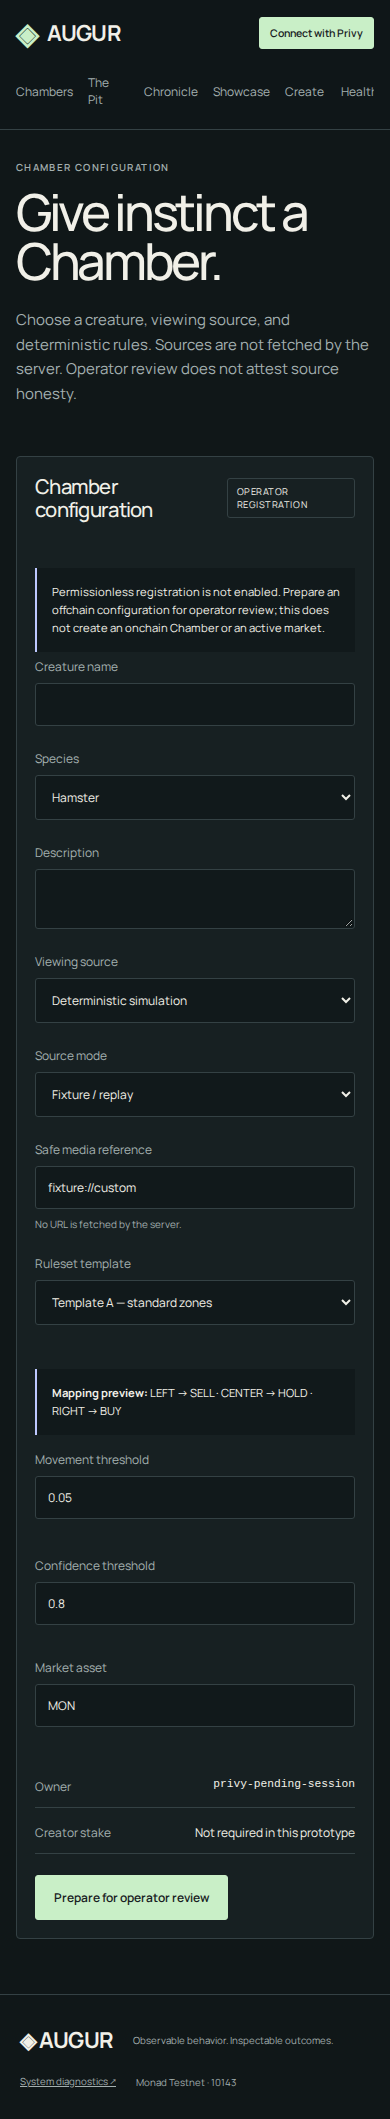
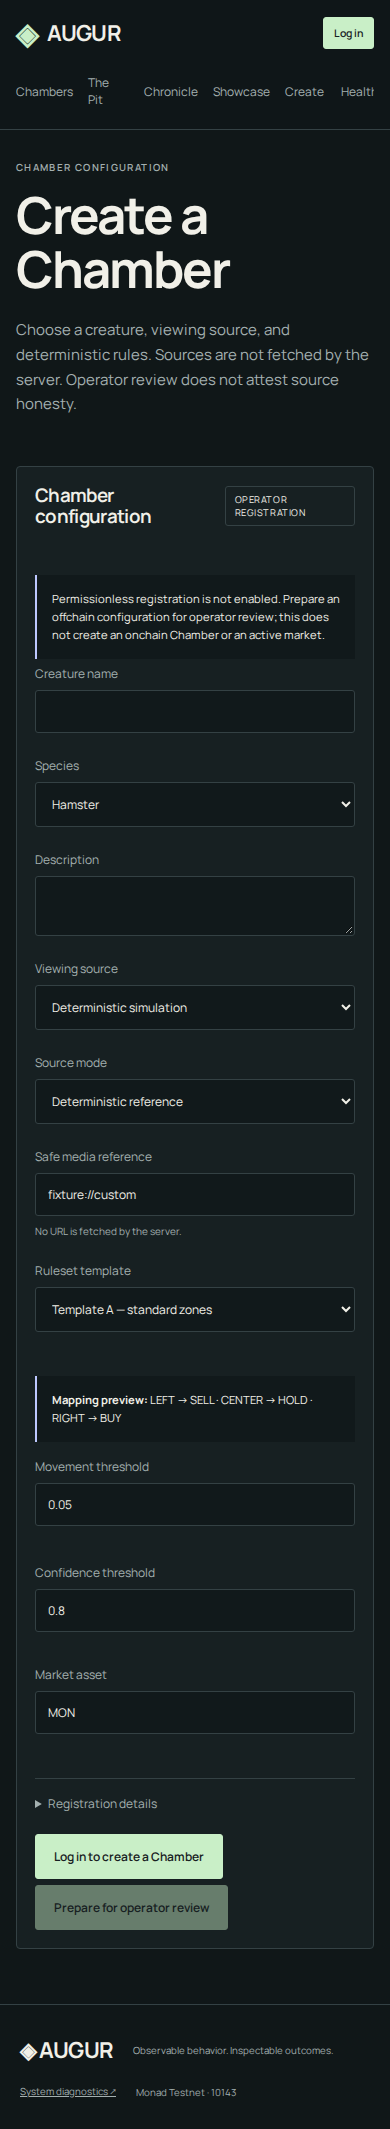
docs: capture corrected product and production boundaries

diff --git a/docs/SUBMISSION-AUDIT.md b/docs/SUBMISSION-AUDIT.md
@@ -1,4 +1,4 @@
-# Product completion audit
+# Product correction audit
 
 The local product uses the real Monad Testnet deployment and verified local Envio projection. Production hosting remains blocked on external configuration. No blockchain transaction was sent during this product pass.
 
@@ -6,20 +6,22 @@ The local product uses the real Monad Testnet deployment and verified local Envi
 
 | Surface | Verified boundary |
 | --- | --- |
-| Discovery | Media-led Hamster, Fish and Turtle categories. Hamster has real indexed contract records; Fish/Turtle are replay rooms and local demonstrations, not onchain markets. |
-| Chamber | Licensed recorded footage, published behavior/Omen, real market state, exact AUGD pools, wallet-position reads, and separate approval/prediction/settlement feedback. Footage is explicitly illustrative, not publication evidence. |
-| Media | Recorded video, public HLS and browser-camera adapters with loading/error handling, native controls and fullscreen. No live source is configured; private camera footage is not stored or uploaded. |
-| Motion | Route entry/exit, scroll reveals and linked viewing expansion, Omen/market transitions, pool transitions, battle introductions, reaction bursts and drawers. Reduced motion disables spatial effects and automatic replay playback. |
+| Discovery | Pablo (Hamster), Bubbles (Fish) and Turbo (land Tortoise) have readable identities, cards and rooms. Pablo shows real indexed contract records; Bubbles/Turbo have no funded onchain market. Display names are curated aliases, not changes to contract metadata. |
+| Chamber | Feed left, prediction exchange right: outcome pool shares, total pool, lock countdown, stake and estimated payout. Published behavior/Omen, wallet-position reads and separate approval/prediction/settlement feedback remain. Licensed footage is illustrative, not publication evidence. Technical fields are collapsed. |
+| Media | Recorded video, public HLS and browser-camera adapters with bounded loading, reconnect/offline handling, mute and fullscreen. Replay has a timeline; live sources do not. HLS must report a live playlist before showing LIVE. No live source is configured; private camera footage is not stored or uploaded. Turbo's footage shows land tortoises, not sea turtles. |
+| Typography / motion | Readable sans-serif product hierarchy replaces italic display typography. Exact integer pool interpolation, selected outcomes, payout updates, Omen/market transitions, countdown urgency, route transitions, reaction bursts and drawers reinforce state changes. Reduced motion remains supported. |
 | Payouts | All stakes form the winning pool; winners claim pro-rata. No winners means cancellation and participant refunds. No platform fee or treasury. Approval alone does not stake tokens. |
 | Creation | Creature, name, rules and media descriptors prepare content-bound offchain metadata for operator review. The deployed permissionless policy is disabled; no registration is fabricated. |
 | Chronicle / Battles / Showcase | Real indexed history and exact token formatting; explicit local boundaries for virtual battle PnL and repeated three-creature simulation. |
-| Persistence | Supabase schema, six RLS tables, server REST adapter, atomic social rate limits and prepared metadata. SQLite persists local product data. Vercel rejects SQLite fallback; configured database failure is explicit. |
+| Persistence / identity | Supabase Auth-backed profiles, creatures, chambers, media, messages, reactions and favorites extend the existing schema. Privy JWT signatures/audience/issuer/expiry are verified server-side. A protected subject mapping obtains a server-held Supabase Auth session; private writes run under per-user RLS, not arbitrary browser wallet addresses. SQLite retains local metadata/reference data. Vercel rejects SQLite fallback. |
+| Authorization | Public discovery, media, market state, history and proof do not require login. Approve/predict/claim, chat, reactions, favorites and creation require verified identity. Supabase-dependent actions fail explicitly when its configuration is absent. Wallet signing remains Privy-controlled. |
+| Loading | Immediate loading shells, parallel health/history reads, bounded request timeouts and deduplicated short-lived Envio snapshots. Media and wallet initialization do not block market rendering; indexing errors never select fixtures. |
 | Proof | Real indexed commitments remain visible. Full offchain manifests are explicitly unavailable, without fixture evidence or source-honesty claims. |
 
 ## Real-data and safety checks
 
 - Demo startup loads ignored environment configuration and selects ENVIO. It requires chain 10143 and the deployed indexed Chamber; unavailable indexing stops startup instead of selecting fixtures.
-- Local health reports ALCHEMY / HEALTHY, Monad 10143, and bytecode at all six configured contracts. A final read returned block **67920415**. The existing local indexer reports block **67576769**; it is behind the chain head, not falsely presented as a fresh camera feed.
+- Local health reports ALCHEMY / HEALTHY, Monad 10143, and bytecode at all six configured contracts. A read returned block **67940650**. The existing local indexer reports block **67576769**; it is behind the chain head, not falsely presented as a fresh camera feed. Health sequence diagnostics now come from the selected indexed source rather than local reference records.
 - The indexed Chamber renders BUY Omen sequence 1, resolved BUY market 1 and the subsequent open market. Elapsed lock time disables prediction controls. No fixture advancement control appears in contract mode.
 - Approval signing construction and its one-DemoToken-request regression remain unchanged. Approval, prediction and settlement retain distinct feedback; logged-out, wrong-chain and unconfigured contract states cannot become local writes.
 - Wallet position uses onchain read-only mappings through configured server RPC providers. No authenticated browser session or new transaction was fabricated.
@@ -28,11 +30,11 @@ The local product uses the real Monad Testnet deployment and verified local Envi
 
 ## Validation
 
-- **60 web tests in 18 files**, TypeScript typecheck, ESLint and production build pass.
+- **68 web tests in 22 files**, TypeScript typecheck, ESLint and production build pass.
 - Oracle **19 tests** and vision **21 tests** pass.
-- Migration and SQL assertions pass in disposable local Postgres: RLS, RPC permissions, metadata binding, chat/reaction persistence and rate limits, and camera URL constraints. Hosted Supabase has not been contacted or claimed verified.
+- Both migrations and SQL assertions pass in disposable local Postgres: public reads, private profile/favorites boundaries, cross-user rejection, restricted wallet/profile columns, RPC permissions, chat/reaction persistence and per-user rate limits. Local cryptographic tests reject invalid Privy tokens and browser identity spoofing; mocked Auth exchanges test protected subject mapping and concurrent request deduplication. These are not hosted Supabase Auth verification. Hosted Supabase has not been contacted or claimed verified.
 - Browser regression covers **40 route/width combinations**: 1440px desktop, 1024px tablet, 390px and 430px mobile; discovery, indexed Chamber, Proof, Chronicle, battles, creation, Showcase, Health and both replay rooms.
-- All 40 route checks return HTTP 200, with no horizontal document overflow or uncaught page/hydration errors. Native fullscreen enters and exits successfully.
+- All 40 route checks return HTTP 200, with no horizontal document overflow, console errors or uncaught page/hydration errors. Native fullscreen enters and exits successfully. Turbo's portrait footage retains its full frame rather than cropping the tortoise out of the wide player.
 - Browser checks include native replay playback, media failure without protocol-data substitution, category filtering, client navigation, payout drawer, local Showcase start/stop and reduced-motion accessibility. No transaction is submitted by the audit.
 - The real Privy login dialog opens. Final-origin authentication, wallet availability and reconnect remain interactive checks; opening a dialog is not authentication.
 - README screenshots and the 24-frame Showcase GIF are new captures of the running product; all 11 README asset references resolve. Media source/license credits and font licenses are included. Browser-bundle and staged credential scans and diff checks pass.
@@ -56,10 +58,13 @@ The Vercel project is linked and deployment was attempted. Its configuration gua
 Required external configuration:
 
 - Public HTTPS **`ENVIO_GRAPHQL_URL`** serving the real Monad projection.
-- **`SUPABASE_URL`** and server-only **`SUPABASE_SECRET_KEY`** (or `SUPABASE_SERVICE_ROLE_KEY`), with the committed migration applied.
+- **`NEXT_PUBLIC_SUPABASE_URL`**, **`NEXT_PUBLIC_SUPABASE_ANON_KEY`** and server-only **`SUPABASE_SERVICE_ROLE_KEY`**, with both migrations applied and Supabase Auth email provider enabled for the server-held session exchange. Legacy server aliases are described in the database setup guide.
+- Publicly reachable media URLs. Bundled replay assets work locally; live broadcasting requires an actual public HLS URL through `LIVE_STREAM_URL` or an approved media record, not an invented stream.
 
 No hosted indexer or database was invented. See [production checklist](PRODUCTION.md) and [database setup](../supabase/README.md).
 
 After a successful deployment, allowlist its exact origin in Privy if required. Manually verify login, existing/embedded wallet, Monad Testnet 10143, disconnect/reconnect and separate transaction controls. No production-origin authenticated verification is claimed.
 
-CRE remains authenticated-simulation verified with deployment access pending. The local product is prepared for presentation; hosted production and its final Privy check are not yet submission-verified.
+The existing indexed market's lock time has elapsed. It is shown as such and cannot accept predictions from this UI; a new active round requires the existing operator lifecycle, not a fabricated local market.
+
+CRE remains authenticated-simulation verified with deployment access pending. Local product checks do not establish hosted production readiness or final user design approval. Hosted services and the final Privy-origin check remain unverified.

diff --git a/README.md b/README.md
@@ -1,6 +1,6 @@
 # Augur
 
-**Watch instinct. Take a position.**
+**The next move. Your position.**
 
 Augur is a creature prediction exchange: declared observations pass through deterministic behavior rules to produce BUY, HOLD, or SELL **Omens**. Participants stake AUGD on the next qualifying signal; authorized publication resolves the market on Monad. Every Omen binds a creature, sequence, ruleset, and provenance commitment. The animal never trades or holds funds.
 
@@ -10,15 +10,15 @@ Augur is a creature prediction exchange: declared observations pass through dete
 
 ## The viewing rooms
 
-Hamster has a real indexed Monad Testnet Chamber. Fish and Turtle have recorded viewing rooms and local deterministic demonstrations—not fabricated onchain markets. Contract data and media mode are separate: **LIVE CONTRACT** means deployed contract records, never a claim that an illustrative video is live.
+Pablo (Hamster) has a real indexed Monad Testnet Chamber. Bubbles (Fish) and Turbo (land Tortoise) have complete recorded viewing rooms, rules and reference histories—not fabricated onchain markets. These are curated display identities, not names decoded from onchain metadata. One player status distinguishes media from indexed market records.
 
-![Hamster, Fish and Turtle discovery, with honest contract/replay labels](docs/images/discovery.png)
+![Pablo, Bubbles and Turbo discovery, with honest contract/replay labels](docs/images/discovery.png)
 
 - **Recorded replay:** licensed, bundled creature footage, with source credits. It is illustrative and does not attest to the indexed Omen.
 - **Live source:** a configured public HLS stream or an explicitly enabled browser camera. No live stream is supplied by this repository. Camera video is not recorded or uploaded by the player.
 - **Simulation:** deterministic observations and local market cycles, labeled separately. Video playback does not automatically perform computer vision, generate an Omen, or publish a transaction.
 
-[Media credits and licenses](web/public/media/CREDITS.md) · [Fish replay](docs/images/fish.png) · [Turtle replay](docs/images/turtle.png)
+[Media credits and licenses](web/public/media/CREDITS.md) · [Bubbles replay](docs/images/fish.png) · [Turbo land-tortoise replay](docs/images/turtle.png)
 
 ## Inside a Chamber
 
@@ -26,7 +26,9 @@ The viewing stage dominates the page. Published behavior, Omen, market state, po
 
 ![Real indexed Chamber — replay stage, published BUY Omen, market controls and partial provenance](docs/images/chamber.png)
 
-Motion follows the product: scroll-linked viewing expansion, route entry/exit, editorial reveals, Omen/state transitions, pool bars, transaction feedback, battle introductions, and reaction bursts. Reduced-motion preferences disable spatial animation and automatic replay playback.
+The exchange panel groups pool shares, lock countdown, stake, estimated payout and transaction controls alongside the feed. Pool shares describe stake distribution, not calibrated probabilities. Motion follows real updates: exact-integer pool interpolation, outcome selection, Omen/state transitions, transaction feedback and reaction bursts. Reduced motion disables spatial effects and automatic replay playback.
+
+Payout estimates include your additional stake in both pools: a new 1 AUGD BUY stake against a 10 AUGD total / 5 AUGD BUY pool estimates **11 / 6 = 1.8333 AUGD**, not 2 AUGD. The estimate is not a guarantee; subsequent stakes change it.
 
 ## How the money moves
 
@@ -101,7 +103,11 @@ flowchart TD
 
 Viewing and oracle capture are separate boundaries. Protocol truth remains in Monad contracts; Envio serves projections. Supabase stores creature/Chamber metadata, media descriptors, replay records, chat, and reactions. It does not duplicate balances, stakes, Omens, or settlement. SQLite remains the local adapter. No private camera footage is stored.
 
-The [migration and production adapter](supabase/README.md) are implemented and tested against disposable local Postgres, with server-only access, RLS and atomic social rate limits. **Hosted Supabase connectivity is not verified without credentials.** Vercel refuses a SQLite production fallback; database failures are explicit.
+The [migrations and production adapter](supabase/README.md) are implemented and tested against disposable local Postgres, including public reads, cross-user RLS, immutable identity fields and social rate limits. Privy bearer tokens are verified server-side before a server-held Supabase Auth session is issued for that identity. Browser wallet addresses and arbitrary session IDs cannot authenticate product writes. **Hosted Supabase Auth/database connectivity is not verified without credentials.** Vercel refuses a SQLite production fallback; database failures are explicit.
+
+Public markets, media, history and proofs require no login. Prediction, approval, settlement, creation, chat, reactions, profiles and saved Chambers require authenticated identity. Social/account operations additionally need configured Supabase. No guest success is substituted when it is unavailable.
+
+Loading shells stream before data completes. Envio snapshots deduplicate concurrent requests with a short verified-data cache; failures are evicted. Viewing metadata, media and wallet initialization do not block market rendering. Requests have bounded timeouts; inactive tabs do not continually poll.
 
 ## Run locally
 
@@ -137,17 +143,19 @@ Open `http://localhost:3010/chambers/indexed-9d6541b7a855bf7c`. The demo command
 | `ALCHEMY_MONAD_RPC_URL` | Preferred server-only RPC |
 | `MONAD_RPC_URL` | Generic server RPC fallback |
 | `ENVIO_GRAPHQL_URL` | Server indexed reads; public HTTPS service required on Vercel |
-| `SUPABASE_URL` | Server database project endpoint |
-| `SUPABASE_SECRET_KEY` | Server-only database key; legacy `SUPABASE_SERVICE_ROLE_KEY` also supported |
+| `NEXT_PUBLIC_SUPABASE_URL` | Supabase project URL; legacy server `SUPABASE_URL` remains accepted by the adapter |
+| `NEXT_PUBLIC_SUPABASE_ANON_KEY` | Public API key; RLS restricts access |
+| `SUPABASE_SERVICE_ROLE_KEY` | Server-only Auth/admin key; `SUPABASE_SECRET_KEY` also supported |
+| `LIVE_STREAM_URL` | Optional public HTTPS HLS playback URL for Pablo; never an ingest/signing secret |
 | `CHAINLINK_CRE_WORKFLOW_ID` | Set only after a real deployment exists; currently unset |
 
 Never commit `.env`, credentials, signing keys, or auth files. Do not place server RPC/database keys in `NEXT_PUBLIC_*`.
 
 ## Production deployment
 
-The Vercel project **augur** is linked, Node 24 and frozen-lockfile settings are prepared, and the existing public contract/Privy configuration plus server RPC values were configured without printing them. The production attempt stopped at its configuration guard: missing **public HTTPS `ENVIO_GRAPHQL_URL`**, **`SUPABASE_URL`**, and **`SUPABASE_SECRET_KEY` / `SUPABASE_SERVICE_ROLE_KEY`**. There is **no working production URL yet**.
+The Vercel project **augur** is linked, Node 24 and frozen-lockfile settings are prepared, and the existing public contract/Privy configuration plus server RPC values were configured without printing them. Production remains blocked by a public HTTPS **`ENVIO_GRAPHQL_URL`**, **`NEXT_PUBLIC_SUPABASE_URL`**, **`NEXT_PUBLIC_SUPABASE_ANON_KEY`** and **`SUPABASE_SERVICE_ROLE_KEY`**. The earlier deployment stopped at its configuration guard. This correction pass does not deploy a partially configured product. There is **no working production URL yet**.
 
-Apply the Supabase migration, configure those services in Vercel's production environment, and run:
+Apply both Supabase migrations in filename order, configure those services in Vercel's production environment, and run:
 
 ```bash
 cd web
@@ -188,7 +196,7 @@ Pillow is required only for GIF export. Raw capture frames stay ignored.
 ## Honest limits
 
 - Testnet, not mainnet. AUGD is a demo asset. No fee or treasury.
-- Hamster contract data is real; Fish/Turtle viewing rooms are replays/local demonstrations.
+- Pablo contract data is real; Bubbles and Turbo have recorded rooms and no funded contract markets. Turbo uses land-tortoise footage.
 - Bundled video is illustrative, not the smoke Omen's evidence. Full indexed offchain manifests are unavailable; real publication commitments remain visible.
 - Browser camera/HLS viewing does not itself feed the oracle, attest source honesty, or publish Omens.
 - Permissionless registration is disabled in the deployed policy. Creation prepares offchain configuration for authorized operator review.

diff --git a/docs/PRODUCTION.md b/docs/PRODUCTION.md
@@ -13,8 +13,9 @@ The attempted production build failed at its configuration guard. There is no wo
 ## Required external configuration
 
 1. A publicly reachable HTTPS `ENVIO_GRAPHQL_URL` serving the verified Monad Testnet projection. The current `http://localhost:8080/v1/graphql` works only for the local demo; it cannot serve Vercel. Do not replace it with a fabricated hosted endpoint.
-2. A Supabase project with `supabase/migrations/202610030001_product_data.sql` applied.
-3. Server-only `SUPABASE_URL` and `SUPABASE_SECRET_KEY` (legacy alternative: `SUPABASE_SERVICE_ROLE_KEY`). No browser database key is needed.
+2. A Supabase project with both migrations in `supabase/migrations/` applied in filename order.
+3. `NEXT_PUBLIC_SUPABASE_URL`, `NEXT_PUBLIC_SUPABASE_ANON_KEY` and server-only `SUPABASE_SERVICE_ROLE_KEY`. The adapter retains legacy `SUPABASE_URL` / `SUPABASE_SECRET_KEY` compatibility; the production guard requires the public URL/key used by the Auth boundary.
+4. Supabase Auth's email provider enabled for the server-only generated-link exchange. It sends no email: identity is verified with Privy first. Internal aliases never come from the browser. Do not run the disposable test Auth bootstrap in a hosted project.
 
 Keep the existing production variables:
 
@@ -34,6 +35,8 @@ MONAD_RPC_URL
 
 Disable `NEXT_PUBLIC_PRIVY_LOCAL_MODE`. Leave `CHAINLINK_CRE_WORKFLOW_ID` unset until an actual CRE deployment exists. Media descriptors contain only public sources; never persist a signed/private stream URL.
 
+For live viewing, supply optional `LIVE_STREAM_URL` or an available Chamber media record. Camera/OBS → provider RTMP ingest → public HLS playback → Augur. Cloudflare Stream, Mux or Livepeer can provide the playback boundary; no vendor account is assumed. Ingest credentials stay outside browser-visible media records. Recorded footage never becomes LIVE just because it is configured.
+
 ## Deploy only when the services can work
 
 Configure variables through Vercel's dashboard or secret-safe CLI input. Do not put credentials on a command line or in chat. Then:
@@ -47,11 +50,11 @@ vercel deploy --prod
 The configuration guard verifies presence and rejects localhost endpoints; it does not assert runtime connectivity. A successful build must be followed by real checks:
 
 - `/api/health`: ENVIO, Alchemy HEALTHY, chain 10143, all six deployed bytecodes, Supabase HEALTHY.
-- `/`: indexed Hamster plus honestly labeled Fish/Turtle replay rooms.
+- `/`: indexed Pablo plus Bubbles and Turbo land-tortoise replay rooms.
 - `/chambers/indexed-9d6541b7a855bf7c`: real Omen, real market, contract controls, no fixture advancement, distinct approval/prediction/settlement state.
 - `/chronicle`: exact 18-decimal AUGD formatting and real indexed history.
 - Chamber `/proof`: real commitments and an explicit unavailable full manifest.
-- Chat/reactions persist across server instances and return an explicit failure when the database is unavailable.
+- Public browsing works without login. Chat/reactions, creation, profiles and favorites reject anonymous requests; authenticated Supabase sessions enforce per-user RLS. A database/Auth failure never becomes a guest success.
 - 1440, 1024, 390 and 430px: no document overflow or hydration/page errors; reduced-motion and media controls remain accessible.
 
 The local Showcase is intentionally separate simulation state; cold starts can reset it. Do not describe those rounds as persisted protocol history.
